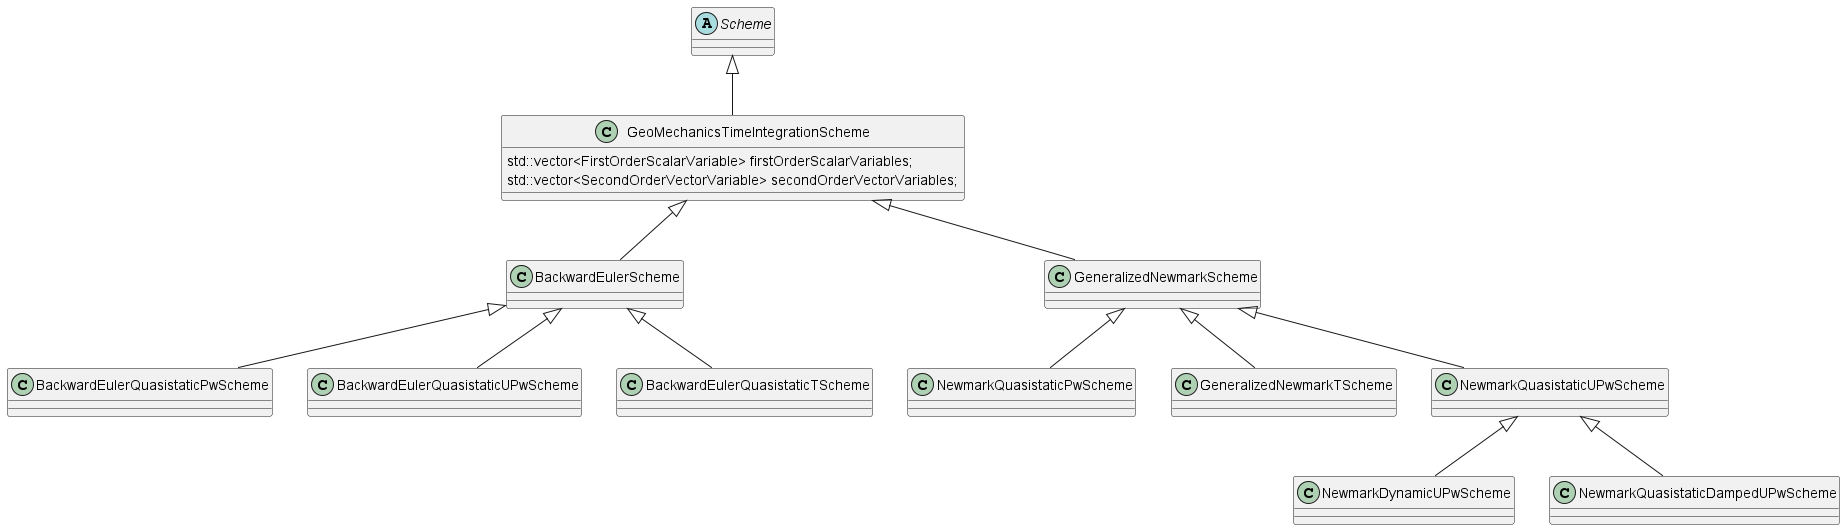
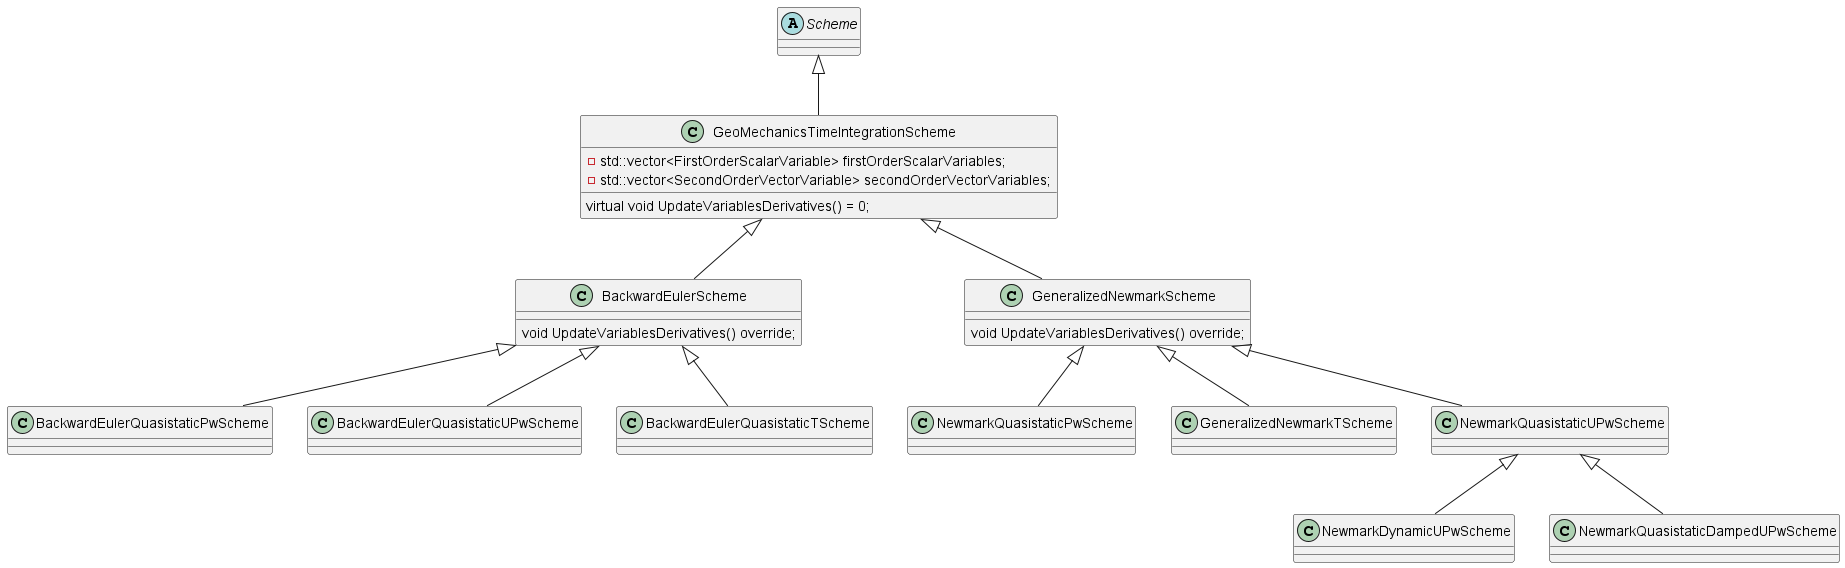
Elaborated on the scheme structure

diff --git a/applications/GeoMechanicsApplication/custom_strategies/schemes/README.md b/applications/GeoMechanicsApplication/custom_strategies/schemes/README.md
@@ -5,9 +5,16 @@ The `Scheme` class in Kratos is used to create time integration schemes. It is a
 
 
 ## Code Structure
-The bulk of the functionality is in the `GeoMechanicsTimeIntegrationScheme` class. It contains two lists of variables that are used in the time integration schemes. A list of first order scalar variables (such as water pressure or temperature) and a list of second order vector variables (such as displacements or rotations). For the first order time derivatives, only the first time derivative is taken into account, while for the second order time derivatives, both the first and the second time derivatives are considered. 
+The bulk of the functionality is in the `GeoMechanicsTimeIntegrationScheme` class. It contains two lists of variables that are used in the time integration schemes. A list of first order scalar variables (such as water pressure or temperature) and a list of second order vector variables (such as displacements or rotations). For the first order time derivatives, only the first time derivative is taken into account, while for the second order time derivatives, both the first and the second time derivatives are considered. These list are filled in the constructor by derived classes that specify which variables are used in the time integration scheme.
+
+The functions that the `GeoMechanicsTimeIntegrationScheme` class implements are mostly dictated by the `Scheme` interface and include functionality like checking if all variables are allocated in the modelpart, getting DofLists, EquationIds and calling different flavors of the Initialize/Finalize/CalculateSystemContributions functions on elements and conditions.
+
+It also has a general `Update` step, which calls the `UpdateVariablesDerivatives` function. This is a purely virtual function that has to be implemented by the derived classed, since how the derivatives are actually updated, defines a time integration scheme. The derived classes then use the lists of variables to update the derivatives. In our structure (see the class diagram), only the `BackwardEulerScheme` and the `GeneralizedNewmarkScheme` classes implement this function.
+
 
 ![img.png](img.png)
+
+_Note that the class diagram is simplified and only shows the functions that need emphasis._
 
 
 Updating the time derivatives is done in the following three functions:
